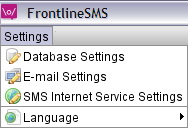
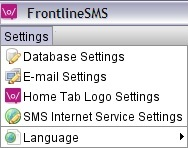
Updated HELP files to latest.

diff --git a/src/assemble/resources/package/help/viewmenu.htm b/src/assemble/resources/package/help/viewmenu.htm
@@ -40,14 +40,12 @@ A:hover {text-decoration: underline; }
       <td><b><font face="Arial" size="4"><br>
       </font><font face="Arial" size="5">The View menu</font></b><p>
       <i><font face="Arial" size="2" color="#666666">The View menu allows you to 
-      configure which tabs you see on your screen, and to replace the &quot;Home&quot; tab 
-      main image</font></i></p>
+      configure which tabs you see on your screen</font></i></p>
       <p>
-      <img border="0" src="img/viewmenu.jpg" width="165" height="88"></p>
-      <p><b><font face="Arial" color="#333333">Tabs </font></b></p>
+      <img border="0" src="img/viewmenu.jpg"></p>
       <p><font face="Arial" size="2" color="#666666">The
-      </font><b><font face="Arial" size="2" color="#008000">Tabs</font></b><font face="Arial" size="2" color="#666666"> 
-      menu item allows you to select which tabs you see along the top of your screen. 
+      </font><b><font face="Arial" size="2" color="#008000">View</font></b><font face="Arial" size="2" color="#666666"> 
+      menu allows you to select which tabs you see along the top of your screen. 
       If, for example, you don't want to see the <b>Forms</b> tab (if you don't 
       intend using this function), you can hide it by removing the tick on the 
       &quot;Forms&quot; entry in the menu. </font><b>
@@ -55,18 +53,6 @@ A:hover {text-decoration: underline; }
       can be displayed or hidden as you see fit, and as many times as you like, 
       whenever you like</font></p>
       <p><br>
-      <b><font face="Arial" color="#333333">Home Tab Logo Settings</font></b></p>
-      <p><font face="Arial" size="2" color="#666666">If you want to customise 
-      the &quot;Home&quot; screen in FrontlineSMS to display your own logo or organisation 
-      name, you can replace the main &quot;\o/&quot; image with one of your own, or remove 
-      it altogether. When you start FrontlineSMS for the first time, there is no 
-      image displayed. To display the default &quot;\o/&quot; logo, select &quot;Use default&quot;</font></p>
-      <p><b><i><font face="Arial" size="2" color="#336699">NOTE</font></i></b><font face="Arial" size="2" color="#336699"><i>: </i></font>
-      <i><font face="Arial" size="2" color="#336699">Because of the smaller 
-      screen sizes on some of the lower-cost netbooks and laptops, you may need 
-      to remove the image altogether in order to see the whole screen</font></i></p>
-      <p><font face="Arial" size="2" color="#666666">&nbsp;</font></p>
-      <p>&nbsp;</p>
       </td>
     </tr>
     <tr>

diff --git a/src/assemble/resources/package/help/settingsmenu.htm b/src/assemble/resources/package/help/settingsmenu.htm
@@ -40,10 +40,10 @@ A:hover {text-decoration: underline; }
       <td><b><font face="Arial" size="4"><br>
       </font><font face="Arial" size="5">The Settings menu</font></b><p>
       <i><font face="Arial" size="2" color="#666666">The Settings menu allows 
-      you to select database options, configure email accounts, and change 
-      screen languages</font></i></p>
+      you to select database options, configure email accounts, replace the &quot;Home&quot; tab 
+      main image, and change screen languages</font></i></p>
       <p>
-      <img border="0" src="img/settingsmenu.jpg" width="188" height="128"></p>
+      <img border="0" src="img/settingsmenu.jpg"></p>
       <p><b><font face="Arial" color="#333333">Database settings</font></b></p>
       <p><font face="Arial" size="2" color="#666666">Only under very unusual 
       circumstances should you need to go into the </font><b>
@@ -61,6 +61,17 @@ A:hover {text-decoration: underline; }
       <font face="Arial" size="2" color="#008000">Email Settings</font></b><font face="Arial" size="2" color="#666666"> 
       screen (you may have to refer to your email provider to obtain the 
       necessary settings)</font></p>
+      <p><br>
+      <b><font face="Arial" color="#333333">Home Tab Logo Settings</font></b></p>
+      <p><font face="Arial" size="2" color="#666666">If you want to customise 
+      the &quot;Home&quot; screen in FrontlineSMS to display your own logo or organisation 
+      name, you can replace the main &quot;\o/&quot; image with one of your own, or remove 
+      it altogether. When you start FrontlineSMS for the first time, there is no 
+      image displayed. To display the default &quot;\o/&quot; logo, select &quot;Use default&quot;</font></p>
+      <p><b><i><font face="Arial" size="2" color="#336699">NOTE</font></i></b><font face="Arial" size="2" color="#336699"><i>: </i></font>
+      <i><font face="Arial" size="2" color="#336699">Because of the smaller 
+      screen sizes on some of the lower-cost netbooks and laptops, you may need 
+      to remove the image altogether in order to see the whole screen</font></i></p>
       <p><br>
       <b><font face="Arial" color="#333333">SMS Internet Service Settings</font></b></p>
       <p><font face="Arial" size="2" color="#666666">Although FrontlineSMS was 

diff --git a/src/assemble/resources/package/help/help-menu-web.htm b/src/assemble/resources/package/help/help-menu-web.htm
@@ -110,7 +110,7 @@ A:hover {text-decoration: underline; }
       <a target="_blank" href="http://www.kiwanja.net"><font color="#800000">
       kiwanja</font><font color="#808080">.</font><font color="#111111">net</font></a></b>
       </font><font face="Verdana" size="2" color="#808080">2005-2010<br>
-      </font><font color="#808080" face="Verdana" size="1">Last edited: April, 
+      </font><font color="#808080" face="Verdana" size="1">Last edited: May, 
       2010</font><font color="#808080" face="Verdana" size="2"> <br>
 &nbsp;</font></p>
       </td>

diff --git a/src/assemble/resources/package/help/help-menu.htm b/src/assemble/resources/package/help/help-menu.htm
@@ -100,7 +100,7 @@ A:hover {text-decoration: underline; }
       <a target="_blank" href="http://www.kiwanja.net"><font color="#800000">
       kiwanja</font><font color="#808080">.</font><font color="#111111">net</font></a></b>
       </font><font face="Verdana" size="2" color="#808080">2005-2010<br>
-      </font><font color="#808080" face="Verdana" size="1">Last edited: April, 
+      </font><font color="#808080" face="Verdana" size="1">Last edited: May, 
       2010</font><font color="#808080" face="Verdana" size="2"> <br>
 &nbsp;</font></p>
       </td>
